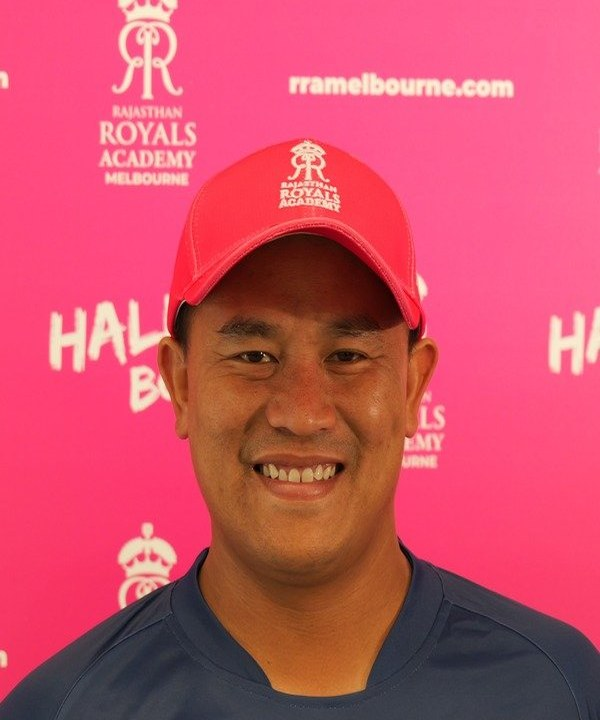
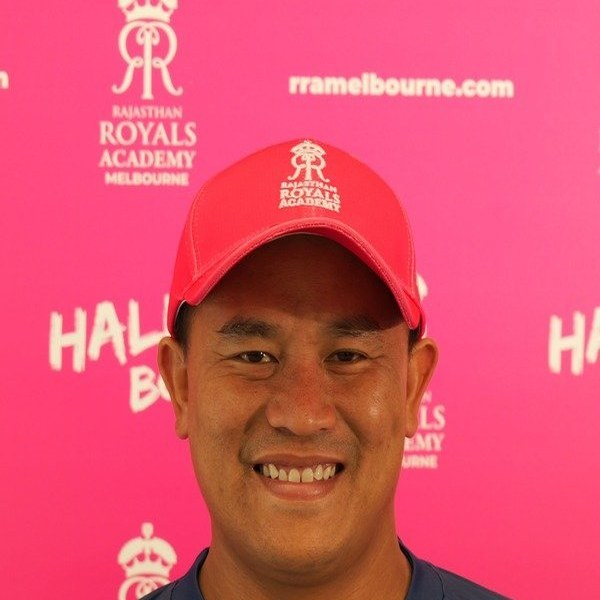
[Junior Royals T3] Fix coach photo proportions — all cropped to 600x600 squares
- All three photos re-cropped to perfect squares so circular frame doesn't stretch
- imgPosition set to object-center since photos are now square

diff --git a/src/components/junior-royals-t3/JRT3Coaches.jsx b/src/components/junior-royals-t3/JRT3Coaches.jsx
@@ -9,7 +9,7 @@ const coaches = [
         bio: 'For over 22 years, thousands of young cricketers have had their careers heavily and positively influenced by his coaching, tactical and player management skills.',
         fullBio: 'For over 22 years, thousands of young cricketers have had their careers heavily and positively influenced by his coaching, tactical and player management skills. Alex is committed to getting the technique right and putting the player first — building not just better cricketers, but sharper athletes and tougher competitors. Current premier cricket senior assistant coach, bowling coach and Academy director.',
         img: '/assets/coaches/alex-lewis.jpg',
-        imgPosition: 'object-[center_15%]',
+        imgPosition: 'object-center',
     },
     {
         name: 'Alex Thornhill',
@@ -18,7 +18,7 @@ const coaches = [
         bio: 'A high quality coach and a key part of the Rajasthan Royals Academy Elite Program, Alex oversees the curriculum and content development for the Junior Royals program.',
         fullBio: 'A high quality coach and a key part of the Rajasthan Royals Academy Elite Program, Alex oversees the curriculum and content development for the Junior Royals program, assisted by experienced lead coaches who deliver the program in each location. A batting specialist with coaching experience across two continents — UK county cricket and the Australian premier system. Alex currently coaches within the Fitzroy Doncaster Academy and leads the cricket program at Xavier College.',
         img: '/assets/coaches/alex-thornhill.jpg',
-        imgPosition: 'object-[center_10%]',
+        imgPosition: 'object-center',
     },
     {
         name: 'Andrew Walton',
@@ -27,7 +27,7 @@ const coaches = [
         bio: 'A Cricket Australia Level 3 High Performance accredited coach with over a decade of Premier Cricket Head Coach experience.',
         fullBio: 'A Cricket Australia Level 3 High Performance accredited coach with over a decade of Premier Cricket Head Coach experience. Andrew has developed players through to Sheffield Shield, BBL and international honours, working with the likes of Glenn Maxwell, Chris Rogers and Sam Harper. Currently Director of Coaching at Scotch College, Andrew brings a rare blend of technical excellence and data-driven performance thinking to the Rajasthan Royals Academy.',
         img: '/assets/coaches/andrew-walton.jpg',
-        imgPosition: 'object-[center_10%]',
+        imgPosition: 'object-center',
     },
 ];
 
